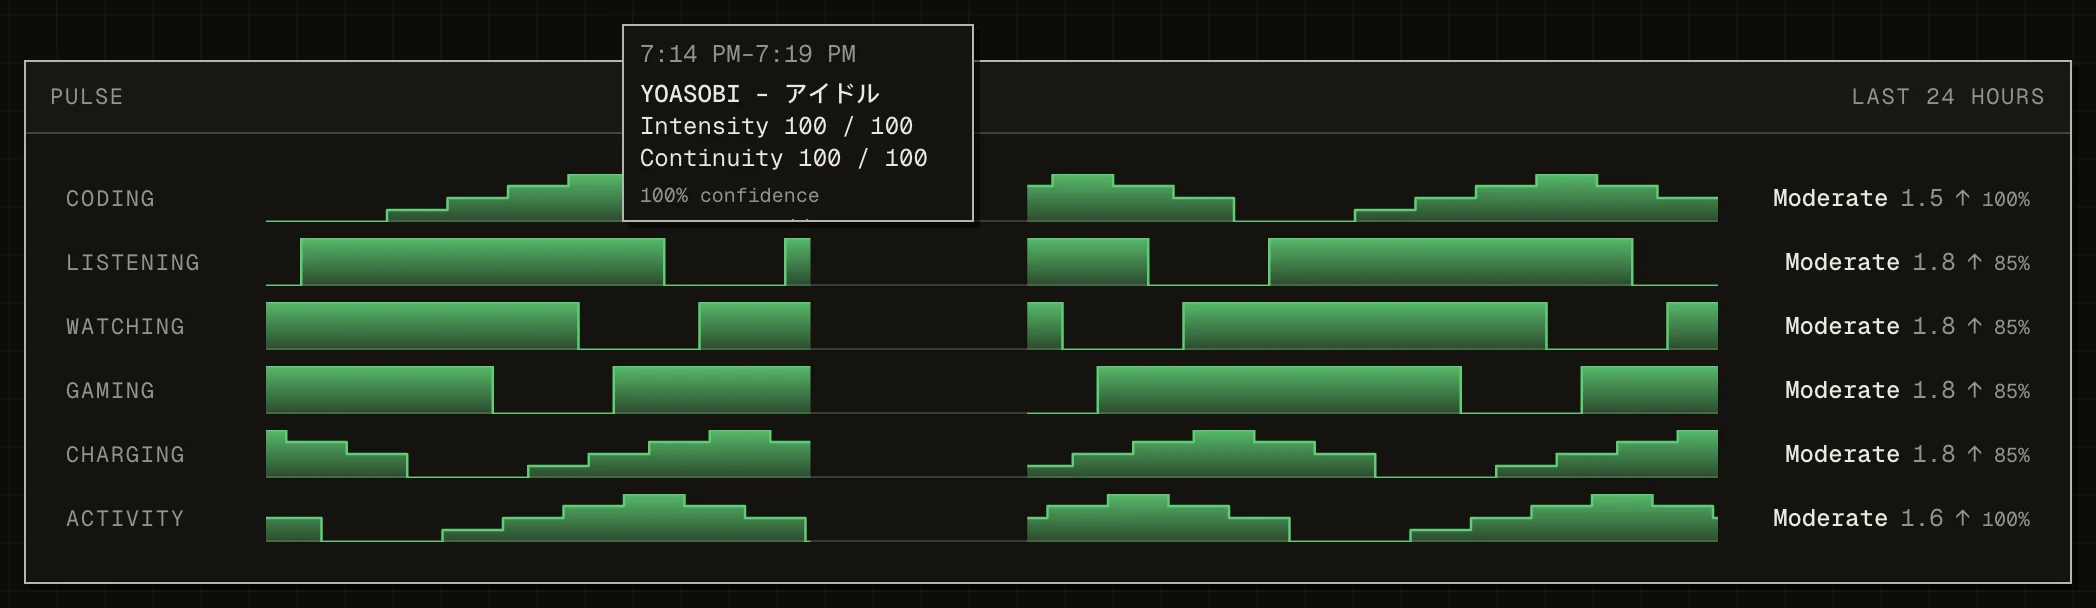
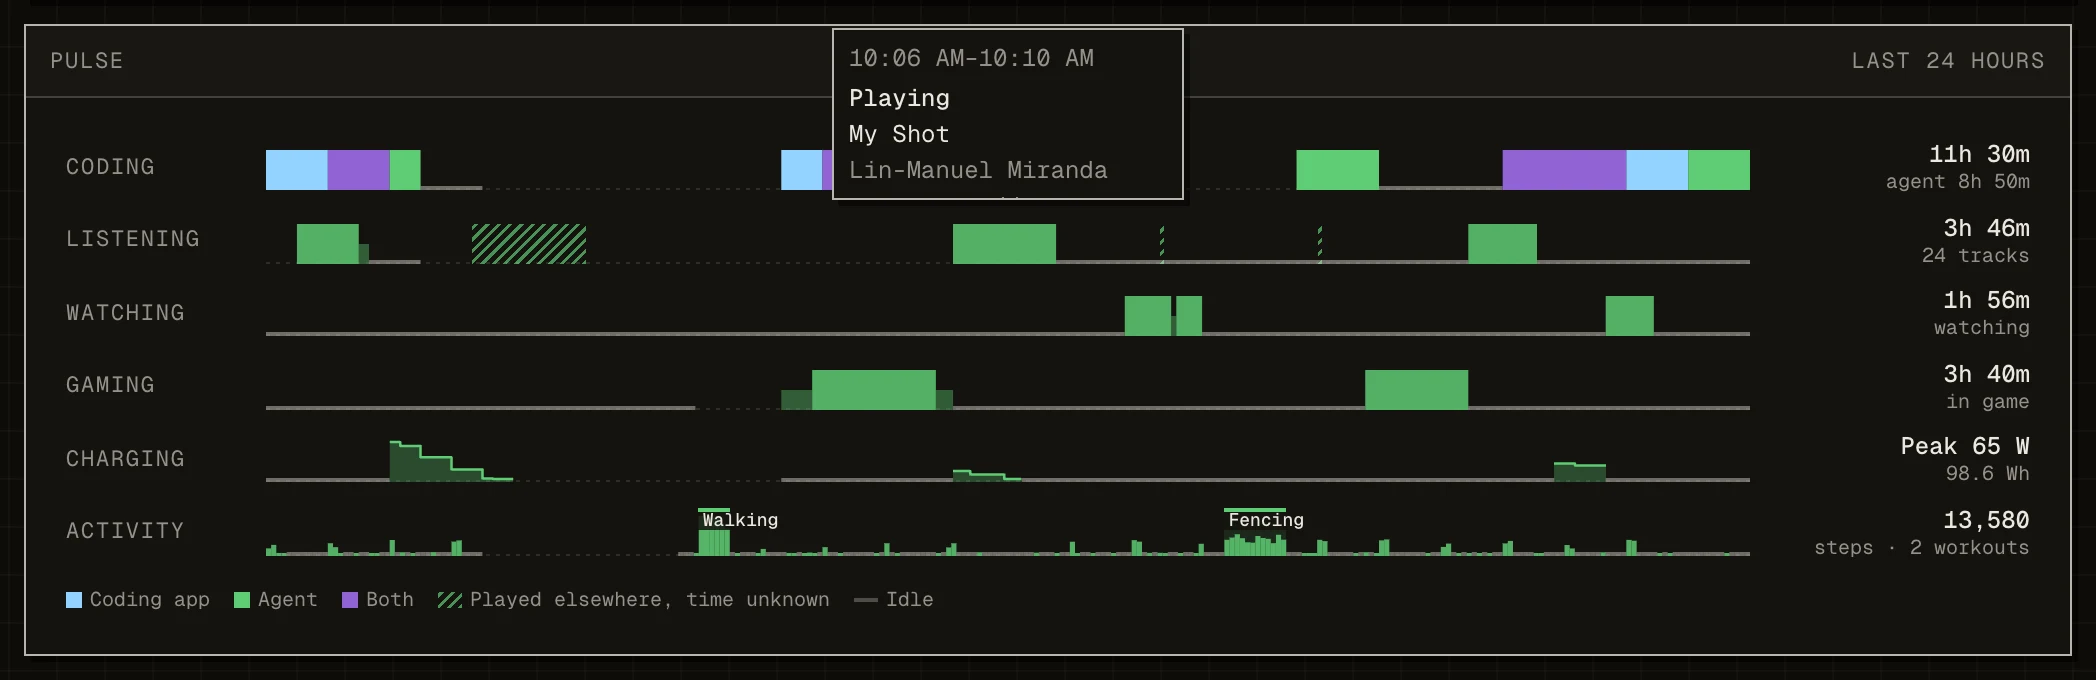
docs(pulse): 文档改成事实时间线，补 D1 事实表与效果图
- workers/api/README：Pulse 一节重写成新契约（lanes 按列、未知与空闲分开）、
  v2 键与写入频率、Coding 三色带的来源与 Cursor 覆盖时的口径、只剩 Coding 的
  Jev 评估，新增「长期归档（D1）」一节列出九张事实表与 agent_usage_days 的缺口；
  删掉档位时代的实测域一节，「最近在听」改说不确定区间
- docs/state-storage：Pulse 键、D1 表清单（pulse_samples 冻结）、Coding 评估一节
- docs/telemetry-subsystems：第 14 节改成事实时间线
- README / README.en：Pulse 介绍与功能表，效果图换成新卡片（悬停听歌道一段）

diff --git a/README.en.md b/README.en.md
@@ -27,7 +27,7 @@ It is both my personal homepage and a personal telemetry system that keeps evolv
 | **Server** | Uptime, CPU, memory and network throughput of the exit node, plus traffic accumulated over the billing cycle. |
 | **AI Coding** | Token usage of coding tools, API-equivalent cost estimates, a yearly heatmap and account limit windows. |
 | **Games** | PlayStation online status, game history and trophy progress; expand a game card for per-trophy details. |
-| **Pulse** | 24-hour activity lanes for six domains: coding, listening, watching, playing, charging and physical activity. Hover any segment to see what was playing, being watched or played, and that window's score. |
+| **Pulse** | A factual 24-hour timeline for coding, listening, watching, playing, charging and physical activity: coding split into coding app / agent / both, listening, watching and playing drawn as playing, paused or idle with the track or title, watts for charging, steps and workouts for activity. Hover any segment to see its state and title. |
 | **The site itself** | Site version, GitHub repository stats and recent commits (with signature status); 30-day uptime rows for the site and the API, rolling medians of PageSpeed lab scores and a real-visitor performance score; request stats and 12-hour error counts for Vercel and Cloudflare Workers, plus push counts, round-trip latency and live versions of the two resident reporters on the exit node. |
 
 The interface is built on grayscale, hairline borders and cards, with tabular figures keeping live metrics steady. Color and motion mostly serve media, state changes and interaction feedback.
@@ -111,11 +111,11 @@ The faint line under the app name is the current window title; the Cursor and An
   <img src="docs/screenshots/playstation-trophies-light.webp" alt="PlayStation card: online, now playing and expanded trophy details" width="100%">
 </picture>
 
-**Pulse**: 24-hour activity lanes for six domains. Watching and playing plot measured playback and game state, charging plots measured watts; coding, listening and physical activity plot Jev's five-minute scores. When music plays on an iPhone or similar device, the Mac can't see it, so the listening score also draws on the recently played list. Physical activity comes from the iPhone querying closed five-minute HealthKit buckets, so it doesn't depend on a background upload arriving on time. Missing buckets stay unknown, and activity estimates never extend to the present moment. Besides the bucket levels, physical activity also considers the names of completed workouts and the active seconds falling in each five-minute window. Each lane summarizes intensity, trend and confidence on the right, and history is archived to D1 every minute. Hover, click or arrow-key onto a segment to see its time range, the track playing then (likewise for shows being watched and games being played), and that window's intensity, continuity and confidence; spans where playback stopped don't carry over the previous track's name.
+**Pulse**: a factual timeline of what I was doing over the last 24 hours, in six lanes. Coding is a three-colour band: a coding app in front, only an agent running, or both at once. Listening, watching and playing show playing / paused / idle (in game / online / offline) along with the track, show or game at the time; charging plots measured watts; physical activity plots steps from closed five-minute HealthKit buckets, with completed workouts drawn as labelled spans. Time with no observation stays empty, distinct from observed idle. Music played on an iPhone or similar device only leaves a trace in the recently played list, with no exact time, so it is drawn as a hatched span of uncertainty. The right column holds the day's facts (coding time and how much of it had an agent running, time playing and track count, peak charging power and energy, steps). Only raw values are stored; levels and colours are computed at display time. Jev scores only coding, in fifteen-minute windows, and its intensity and mode appear in the hover. The facts are archived to D1 every minute. Hover, click or arrow-key onto a segment to see its time range, state and title.
 
 <picture>
   <source media="(prefers-color-scheme: dark)" srcset="docs/screenshots/pulse-detail-dark.webp">
-  <img src="docs/screenshots/pulse-detail-light.webp" alt="Pulse card: six activity lanes with scores; hovering a segment shows its time range, the track playing then and that window's score" width="100%">
+  <img src="docs/screenshots/pulse-detail-light.webp" alt="Pulse card: six factual timelines with daily summaries; hovering a listening segment shows its time range, state and the track playing then" width="100%">
 </picture>
 
 **The site itself (LYJWPAGE)**: repository stats, contributors and recent commits. Below that, two status-page-style uptime rows: `lyjw.me` follows Sentry's per-minute check, and `API` follows the heartbeat the api Worker's minute cron sends every 5 minutes, each with 30 daily cells and an availability figure. Further down are the PageSpeed lab score and the real-visitor Users score, 12-hour requests, CPU and error counts per service, and push counts, round-trip latency and live versions of the two resident reporters on the exit node.
@@ -138,7 +138,7 @@ The system has three parts: **collectors adapt to each source, Cloudflare manage
 
 **Collectors** run where the data is produced. The Mac collects local apps, music, BLE devices and coding usage; the iPhone reads activity; the NAS relays Emby playback; Linux reporters provide server metrics and agent limits. Home Assistant brings in HomePod and other home devices, and a separate Worker syncs PlayStation data on a schedule.
 
-**The state hub** is Cloudflare Workers: it receives reports, merges data from external services, and serves the public status API and live push. Durable Objects SQLite holds the realtime layer's snapshots and history and is the single source of truth. Display-only data that may lag a few minutes (external service stats, the exit node, plan limits and so on) is written straight into a KV lag layer by its producers; every entry carries its update time, and the browser decides against each card's threshold whether it is stale. R2 stores images such as posters, D1 archives Pulse's per-minute history, and a separate Worker keeps the online visitor count.
+**The state hub** is Cloudflare Workers: it receives reports, merges data from external services, and serves the public status API and live push. Durable Objects SQLite holds the realtime layer's snapshots and history and is the single source of truth. Display-only data that may lag a few minutes (external service stats, the exit node, plan limits and so on) is written straight into a KV lag layer by its producers; every entry carries its update time, and the browser decides against each card's threshold whether it is stale. R2 stores images such as posters, D1 archives workouts, activity rings, limits, hourly server summaries and Pulse's factual timeline, and a separate Worker keeps the online visitor count.
 
 **The frontend** runs on Vercel. Next.js reads the Worker's aggregated snapshot when building the homepage; once mounted, the browser connects straight to the Worker for the latest state, and Vercel no longer relays status requests. The mainland China entry point accelerates pages and static assets through Alibaba Cloud ESA.
 

diff --git a/README.md b/README.md
@@ -27,7 +27,7 @@
 | **服务器** | 落地节点的运行时间、CPU、内存、网络吞吐，以及按计费周期累计的流量。 |
 | **AI Coding** | 编码工具的 Token 用量、API 等值成本估算、年度热力图与账号限额窗口。 |
 | **游戏** | PlayStation 在线状态、游戏记录与奖杯进度，展开游戏卡片查看成就明细。 |
-| **Pulse** | 编码、听、看、玩、充电、身体活动六个域最近 24 小时的活跃度泳道；悬停任一时段可看当时在听的曲目、在看的影视、在玩的游戏与该窗口的评分。 |
+| **Pulse** | 编码、听、看、玩、充电、身体活动最近 24 小时的事实时间线：编码分前台应用 / agent / 两者同时，听看玩按在放、暂停、空闲画出并带曲目与片名，充电画瓦数，活动画步数与训练；悬停任一时段可看当时的状态与标题。 |
 | **站点自身** | 网站版本、GitHub 仓库统计与最近提交（含签名状态）；站点与 API 两行 30 天在线状态，PageSpeed 实验室指标的滚动中位数与真实访客的性能分；Vercel 部署、Cloudflare Workers 的调用统计与 12 小时报错数，以及落地节点上两个常驻上报器的推送次数、往返延迟和线上版本。 |
 
 界面以灰阶、细线边界和卡片布局为基础，用等宽数字稳定动态指标的排版。颜色与动效主要服务于媒体内容、状态变化和交互反馈。
@@ -111,11 +111,11 @@
   <img src="docs/screenshots/playstation-trophies-light.webp" alt="PlayStation 卡片：在线、正在游玩与展开的奖杯明细" width="100%">
 </picture>
 
-**Pulse**：六个域最近 24 小时的活跃度泳道。看、玩画实测的播放与游戏状态，充电画实测瓦数；编码、听、身体活动画 Jev 的五分钟评分。听在 iPhone 等设备播放时，本机观测有盲区，因此评分还会结合「最近在听」列表；身体活动由 iPhone 回查 HealthKit 的闭合五分钟统计桶，不依赖后台上传恰好按时发生。缺失桶保持未知，活动估算不会延伸到此刻。身体活动的判据除了统计桶档位，还包括已完成训练的项目名和落在每个五分钟窗口里的活动秒数。六项右侧统一汇总强度档位、趋势和置信度，历史每分钟归档到 D1。悬停、点击或用方向键走到某一段，会显示这一段的时间范围、当时在听的曲目（在看的影视、在玩的游戏同理）以及该窗口的强度、连续性和置信度；播放停止的时段不沿用上一首的名字。
+**Pulse**：最近 24 小时「在做什么」的事实时间线，六条道。编码是三色带：前台开着编码应用、只有 agent 在跑、两者同时；听、看、玩按状态画出在放 / 暂停 / 空闲（在游戏里 / 在线 / 离线），并带上当时的曲目、影视或游戏名；充电画实测瓦数；身体活动画 HealthKit 闭合五分钟桶的步数，训练叠成带项目名的区间。没有观测的时段留空，和观测到的空闲分开。iPhone 等设备上的播放只在「最近在听」列表里留下痕迹、不知道确切时刻，画成一段斜线的不确定区间。右侧是这一天的事实摘要（编码时长与其中 agent 的时长、在放时长与曲目数、充电峰值与电量、步数）。只存原始值，档位与颜色在展示时现算；Jev 只给编码的十五分钟窗口打强度与模式，出现在悬停里。事实每分钟归档到 D1。悬停、点击或用方向键走到某一段，会显示这一段的时间范围和当时的状态与标题。
 
 <picture>
   <source media="(prefers-color-scheme: dark)" srcset="docs/screenshots/pulse-detail-dark.webp">
-  <img src="docs/screenshots/pulse-detail-light.webp" alt="Pulse 卡片：六条活跃度泳道与评分，悬停某一段显示时间范围、当时的曲目与该窗口评分" width="100%">
+  <img src="docs/screenshots/pulse-detail-light.webp" alt="Pulse 卡片：六条事实时间线与右侧摘要，悬停听歌道的一段显示时间范围、状态与当时的曲目" width="100%">
 </picture>
 
 **站点自身（LYJWPAGE）**：仓库统计、贡献者与最近提交；下面是状态页式的两行在线状态——`lyjw.me` 看 Sentry 的每分钟探测，`API` 看 api Worker 分钟 cron 每 5 分钟报一次的心跳，各带 30 天每天一格和可用率；再往下是 PageSpeed 实验室分与真实访客的 Users 分，以及各服务 12 小时的请求、CPU、报错数，落地节点上两个常驻上报器的推送次数、往返延迟与线上版本。
@@ -138,7 +138,7 @@
 
 **采集端**运行在数据产生的位置。Mac 采集本机应用、音乐、BLE 设备与编码用量，iPhone 读取运动活动，NAS 代理 Emby 播放状态，Linux 上报器提供服务器指标和 Agent 限额。Home Assistant 接入 HomePod 等家庭设备；PlayStation、Apple Music 最近在听以及 GitHub、Vercel、Cloudflare、Sentry、PageSpeed 这些外部数据由采集 Worker 定时拉取。
 
-**状态中枢**由 Cloudflare Workers 承担，负责接收上报、整合外部服务数据、提供公开状态 API 和实时推送。Durable Objects SQLite 保存实时层的快照与历史，是唯一权威；只展示、可以晚几分钟的数据（外部服务的统计、落地节点、限额等）由写入方直接写进 KV 可滞后层，每条带更新时刻，过没过时由浏览器按各卡阈值判断。R2 保存海报等图片资源，D1 归档 Pulse 的逐分钟历史；在线访客计数由独立 Worker 维护。
+**状态中枢**由 Cloudflare Workers 承担，负责接收上报、整合外部服务数据、提供公开状态 API 和实时推送。Durable Objects SQLite 保存实时层的快照与历史，是唯一权威；只展示、可以晚几分钟的数据（外部服务的统计、落地节点、限额等）由写入方直接写进 KV 可滞后层，每条带更新时刻，过没过时由浏览器按各卡阈值判断。R2 保存海报等图片资源，D1 归档训练、圆环、限额、服务器小时汇总与 Pulse 的事实时间线；在线访客计数由独立 Worker 维护。
 
 **展示端**运行在 Vercel。Next.js 生成首页时读取 Worker 的聚合快照，浏览器挂载后直接连接 Worker 获取最新状态，不再经由 Vercel 转发状态请求。中国大陆访问入口通过阿里云 ESA 加速页面与静态资源。
 

diff --git a/docs/telemetry-subsystems.md b/docs/telemetry-subsystems.md
@@ -19,7 +19,7 @@
 11. [活动圆环 — iPhone Telemetry Hub](#11-活动圆环--iphone-telemetry-hub)
 12. [落地节点监控与三档自适应调频](#12-落地节点监控与三档自适应调频)
 13. [PWA 与边缘缓存规则](#13-pwa-与边缘缓存规则)
-14. [跨域活动脉搏与活动分（Pulse）](#14-跨域活动脉搏与活动分pulse)
+14. [跨域活动脉搏（Pulse）](#14-跨域活动脉搏pulse)
 
 ---
 
@@ -281,39 +281,18 @@ payload: >-
 
 ---
 
-## 14. 跨域活动脉搏与活动分（Pulse）
+## 14. 跨域活动脉搏（Pulse）
 
-首页 Pulse 的六条曲线与右侧摘要统一使用五分钟 Jev 评分，详情见
-[统一五分钟评分](../workers/api/README.md#pulse-统一五分钟评分)。
+首页 Pulse 是最近 24 小时「在做什么」的事实时间线：只存原始值，档位、颜色、摘要在卡片里现算。
+契约与存储见 [跨域活动脉搏（Pulse）](../workers/api/README.md#跨域活动脉搏pulse)。
 
-采集原始状态仍存 `pulse:<domain>`，由规则解释正在播放、暂停、充电等观测状态。
-这些规则档位不直接绘图。每个领域的变化和五分钟心跳（含空闲）都记录，断流留空。
-送去 Jev 之前，每个域把窗口压成算好的命名秒数和次数（`shared/pulse-<domain>.ts`），
-模型不拿原始区间、时间戳或数字图例——它不会数数、不会算时长；档位判据写成情境。
-Coding 另外保留前台应用与 Agent 的细粒度观测，并接入 MacTelemetryHub 的
-`vibeCodingNow.tokenUsage`。用量按本地日志事件时间入桶，不由日汇总差分。
-Listening 另外把「最近在听」列表的变动作为播放证据（`pulse:listening-plays`）：
-Mac 睡着、HomePod 没动时，iPhone 等设备只在这份列表上留痕迹。它没有时刻，
-只知道播放落在两次刷新之间，所以一条最多认领一个评分窗口那么长的已观测时间，
-其余不确定性由置信度承担。也因为实测只看得见 Mac 和 HomePod，Listening 这条线
-画的是 Jev 评分（`kind:"score"`）而不是实测阶跃，两路证据才都在图上；
-Watching / Gaming / Charging 没有这个盲区，仍画实测。
-身体活动由 iPhone 回查最近 24 小时已经闭合的 UTC 五分钟 HealthKit statistics 桶。
-每次上报的查询范围是权威快照，可修订或删除旧桶；部分指标缺失且其余读数为零时保持未知，
-只有三项都明确为零才算静止，也不会把最后一个桶延伸到当前时刻。
-已完成训练另从 `workouts:recent` 进入同一套 Jev 判据：项目名和摊到五分钟窗口里的活动秒数与统计桶档位并列，统计桶不混入这笔时长。训练覆盖而统计桶没有样本的窗口也会打分。
-
-`PulseScorer` 每五分钟最多运行一轮。完整观测且信号全是 0 的窗口按题目最低档写成确定评分，不请求 Jev；覆盖不全、缺报或有活动的窗口仍按领域和时间窗口独立请求官方 Jev。
-统一保存 `pulse:assessments`。相同输入哈希不重复评分，迟到用量可触发对应窗口修订。
-每个窗口含覆盖区间、强度、连续性、置信度、概率分布、实际模型和评分时间。
-右侧 24 小时摘要按同一批分数的已观测时长加权；趋势比较最近三小时与此前三小时。
-缺乏任一侧观测时趋势是 unknown，不冒充稳定。没有第二条日总评模型调用链。
-
-公开端点 `GET /api/status/pulse` 与 `/api/home.pulse` 返回
-`domains[domain].assessments/score`（按列、时刻为相对 `window.from` 的秒）。评分只公开区间、强度（含置信度）、连续性和模式，
-概率分布、输入哈希、模型名和评分时刻不出库。原始应用、曲名、token 和会话信息不公开。
-读模型仍为 slow 策略，页面五分钟轮询，发布和浏览器读取可能增加显示延迟。
-
-原始状态按水位归档 D1；Activity 的权威查询范围按 revision 原子替换，保留修订和删除。
-模型评分在 StateHub 保留七天，不混入原始状态表。
-发布顺序为 Worker、前端契约生效后再安装对应采集器；Activity 历史需安装 iPhone Hub 2.0.3。
+- 听、看、玩是状态区间：每条道一个开着的区间加一串已关闭区间（`pulse:v2:<道>`），同一状态只续
+  最后确认时刻、每分钟最多写一次，状态或标题变了才换段；超过有效期没有观测就是未知，不是空闲。
+  曲名、艺人、专辑、片名、集数、游戏名分字段存，不再压成 48 字 hint。
+- 「最近在听」列表的变动没有时刻，只知道落在两次刷新之间，存成不确定区间
+  （`pulse:v2:listening-traces`），图上用斜线画出来，不当成此刻在放。
+- Coding 的三色带（前台 coding 应用 / agent / 两者同时）读时从原始观测
+  （`pulse:coding-observations` 与 Cursor 账号观测）现算。Jev 只给 Coding 打十五分钟强度与模式，
+  只在悬停里出现；别的道不再有模型分。
+- 充电存实测瓦数，身体活动存 HealthKit 五分钟桶的原始计数与已完成训练的区间。
+- 这些事实由状态核心按水位每分钟归档到 D1 的事实表（迁移 `0007_history_pulse.sql`）。
